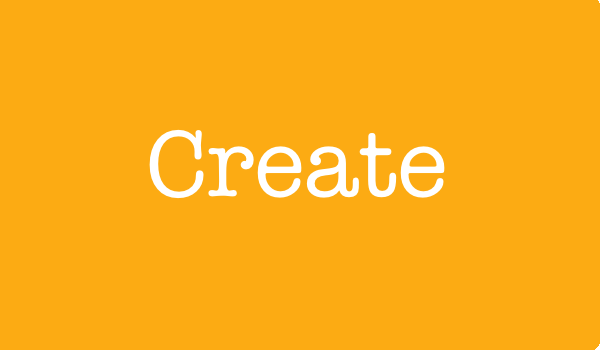
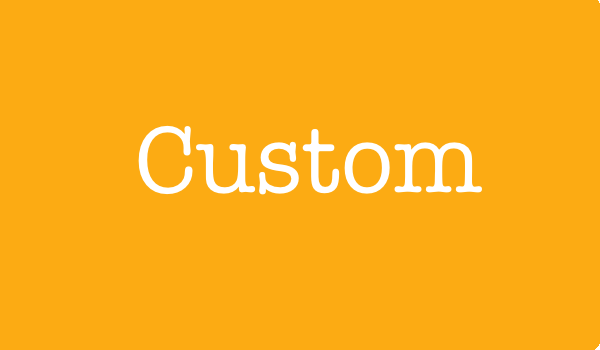
Basic UI for Service cards

Changed region(s): [[0.21, 0.3429, 0.81, 0.5714]]

diff --git a/app/HTML/services.html b/app/HTML/services.html
@@ -38,18 +38,24 @@
       </a>
 
       <li class="heading">
-        Sign Out
+        <b>
+          Sign Out
+        </b>
       </li>
 
       <a href = "/html/services.html">
         <li class="heading">
-          Services
+          <b>
+            Services
+          </b>
         </li>
       </a>
 
       <a href = "/html/dashboard.html">
         <li class="heading">
-          Dashboard
+          <b>
+            Dashboard
+          </b>
         </li>
       </a>
     </div>
@@ -73,35 +79,49 @@
 
     <div class = "clearfix"/>
 
-    <img src="/Images/Create.png" class="service_images" style="margin-left: calc((100% - 1150px) / 2);">
+    <!-- The Modal -->
+    <div id="myModal" class="modal">
+
+      <!-- Modal content -->
+      <div class="modal-content">
+        <span class="close">&times;</span>
+        <center><b><p id="modal_title"></p></b></center>
+      </div>
+
+    </div>
+
+    <div class = "clearfix"/>
+
+
+    <img onclick="open_modal('Custom', '#FDB813', '#fff7e6')" src="/Images/Create.png" class="service_images" style="margin-left: calc((100% - 1150px) / 2);">
     </img>
 
-    <img src="/Images/Spotify.png" class="service_images">
+    <img onclick="open_modal('Spotify', '#1ed761', '#e9fcf0')" src="/Images/Spotify.png" class="service_images">
     </img>
 
-    <img src="/Images/Amazon.png" class="service_images">
+    <img onclick="open_modal('Amazon', '#fdd400', '#fffbe6')" src="/Images/Amazon.png" class="service_images">
     </img>
 
     <br></br>
 
-    <img src="/Images/Netflix.png" class="service_images" style="margin-left: calc((100% - 1150px) / 2);">
+    <img onclick="open_modal('Netflix', '#000000', '#ffe8e6')" src="/Images/Netflix.png" class="service_images" style="margin-left: calc((100% - 1150px) / 2);">
     </img>
 
-    <img src="/Images/Hulu.png" class="service_images">
+    <img onclick="open_modal('Hulu', '#99cc34', '#f5faeb')" src="/Images/Hulu.png" class="service_images">
     </img>
 
-    <img src="/Images/HBO.png" class="service_images">
+    <img onclick="open_modal('HBO', '#000000', '#f2f2f2')" src="/Images/HBO.png" class="service_images">
     </img>
 
     <br></br>
 
-    <img src="/Images/NFL.png" class="service_images" style="margin-left: calc((100% - 1150px) / 2);">
+    <img onclick="open_modal('NFL Game Pass', '#133f70', '#e9f2fb')", src="/Images/NFL.png" class="service_images" style="margin-left: calc((100% - 1150px) / 2);">
     </img>
 
-    <img src="/Images/NBA.png" class="service_images">
+    <img onclick="open_modal('NBA Leage Pass', '#fda934', '#fff4e6')" src="/Images/NBA.png" class="service_images">
     </img>
 
-    <img src="/Images/MLB.png" class="service_images">
+    <img onclick="open_modal('MLB TV', '#000087', '#e6e6ff')" src="/Images/MLB.png" class="service_images">
     </img>
 
     <div id="footer">
@@ -131,5 +151,6 @@
       };
       firebase.initializeApp(config);
     </script>
+    <script src = "/js/services.js"></script>
   </body>
 </html>

diff --git a/app/CSS/index.css b/app/CSS/index.css
@@ -22,6 +22,7 @@ body
 {
   margin: 0;
   padding: 0;
+  min-width: 1400px;
 }
 
 #menu_bar
@@ -32,6 +33,8 @@ body
   position: fixed;
   float: left;
   transition: 0.5s;
+  min-width: 1400px;
+  z-index: 5;
 }
 
 #title_name
@@ -122,6 +125,13 @@ body
     margin-left: 10px;
     margin-top: 25px;
     text-decoration: none;
+    transition: 0.5s;
+    cursor: pointer;
+}
+
+.footer_images:hover
+{
+  opacity: 0.7;
 }
 
 #side_bar
@@ -163,6 +173,14 @@ body
   border-radius: 15px;
   margin-top: 50px;
   box-shadow: 5px 5px 5px grey;
+  transition: 0.5s;
+  cursor: pointer;
+}
+
+.dashboard_cards:hover
+{
+  z-index: -1;
+  transform: scale(1.1);
 }
 
 .service_images
@@ -173,4 +191,68 @@ body
   height: 175px;
   border-radius: 10px;
   box-shadow: 5px 5px 5px grey;
+  transition: 0.5s;
+  cursor: pointer;
+}
+
+.service_images:hover
+{
+  transform: scale(1.1);
+  z-index: -1;
+}
+
+
+
+--------------
+
+.modal {
+    display: none; /* Hidden by default */
+    position: fixed; /* Stay in place */
+    z-index: 1; /* Sit on top */
+    left: 0;
+    top: 0;
+    width: 100%; /* Full width */
+    height: 100%; /* Full height */
+    overflow: auto; /* Enable scroll if needed */
+}
+
+#modal_title
+{
+  font-size: 36px;
+  color: #FDB813;
+  margin-top: 0px;
+  margin-left: 10px;
+}
+
+/* Modal Content/Box */
+.modal-content {
+    height: 500px;
+    float: left;
+    margin-left: calc((100% - 500px) / 2);
+    position: fixed;
+    display: none;
+    background-color: #fefefe;
+    padding: 20px;
+    border: 7px solid #FDB813;
+    width: 500px; /* Could be more or less, depending on screen size */
+    z-index: 10;
+    border-radius: 5px;
+    overflow-y: scroll;
+    margin-top: -50px;
+}
+
+/* The Close Button */
+.close {
+  margin-top: -10px;
+  color: #FDB813;
+  float: right;
+  font-size: 28px;
+  font-weight: bold;
+}
+
+.close:hover,
+.close:focus {
+  opacity: 0.9;
+    text-decoration: none;
+    cursor: pointer;
 }

diff --git a/app/HTML/dashboard.html b/app/HTML/dashboard.html
@@ -39,18 +39,24 @@
       </a>
 
       <li class="heading">
-        Sign Out
+        <b>
+          Sign Out
+        </b>
       </li>
 
       <a href = "/html/services.html">
         <li class="heading">
-          Services
+          <b>
+            Services
+          </b>
         </li>
       </a>
 
       <a href = "/html/dashboard.html">
         <li class="heading">
-          Dashboard
+          <b>
+            Dashboard
+          </b>
         </li>
       </a>
     </div>
